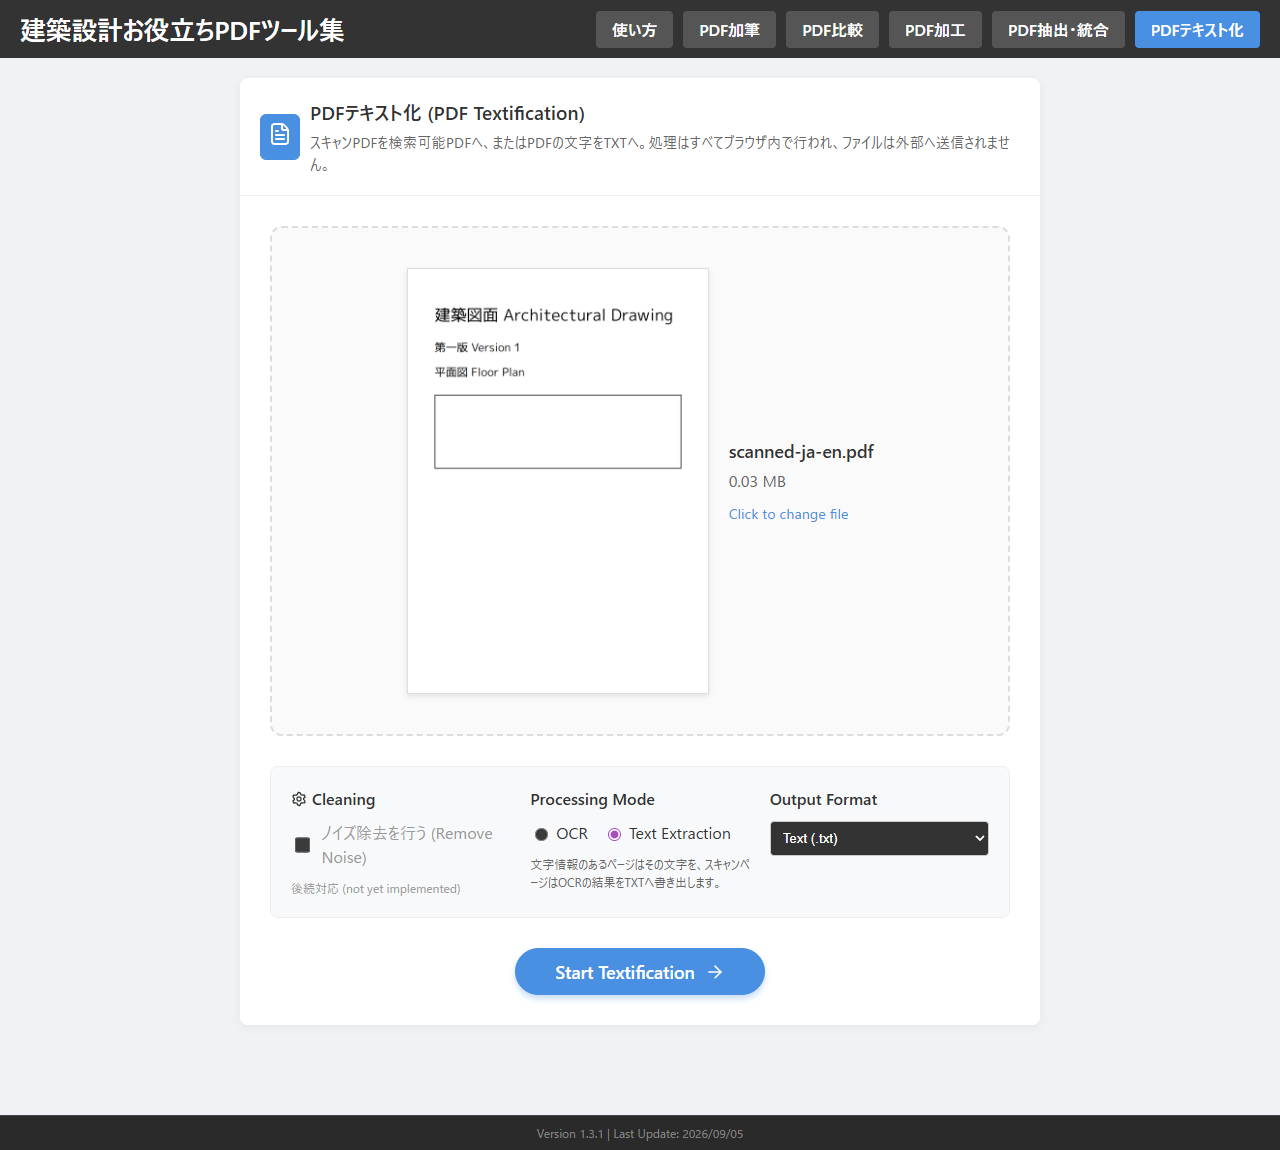
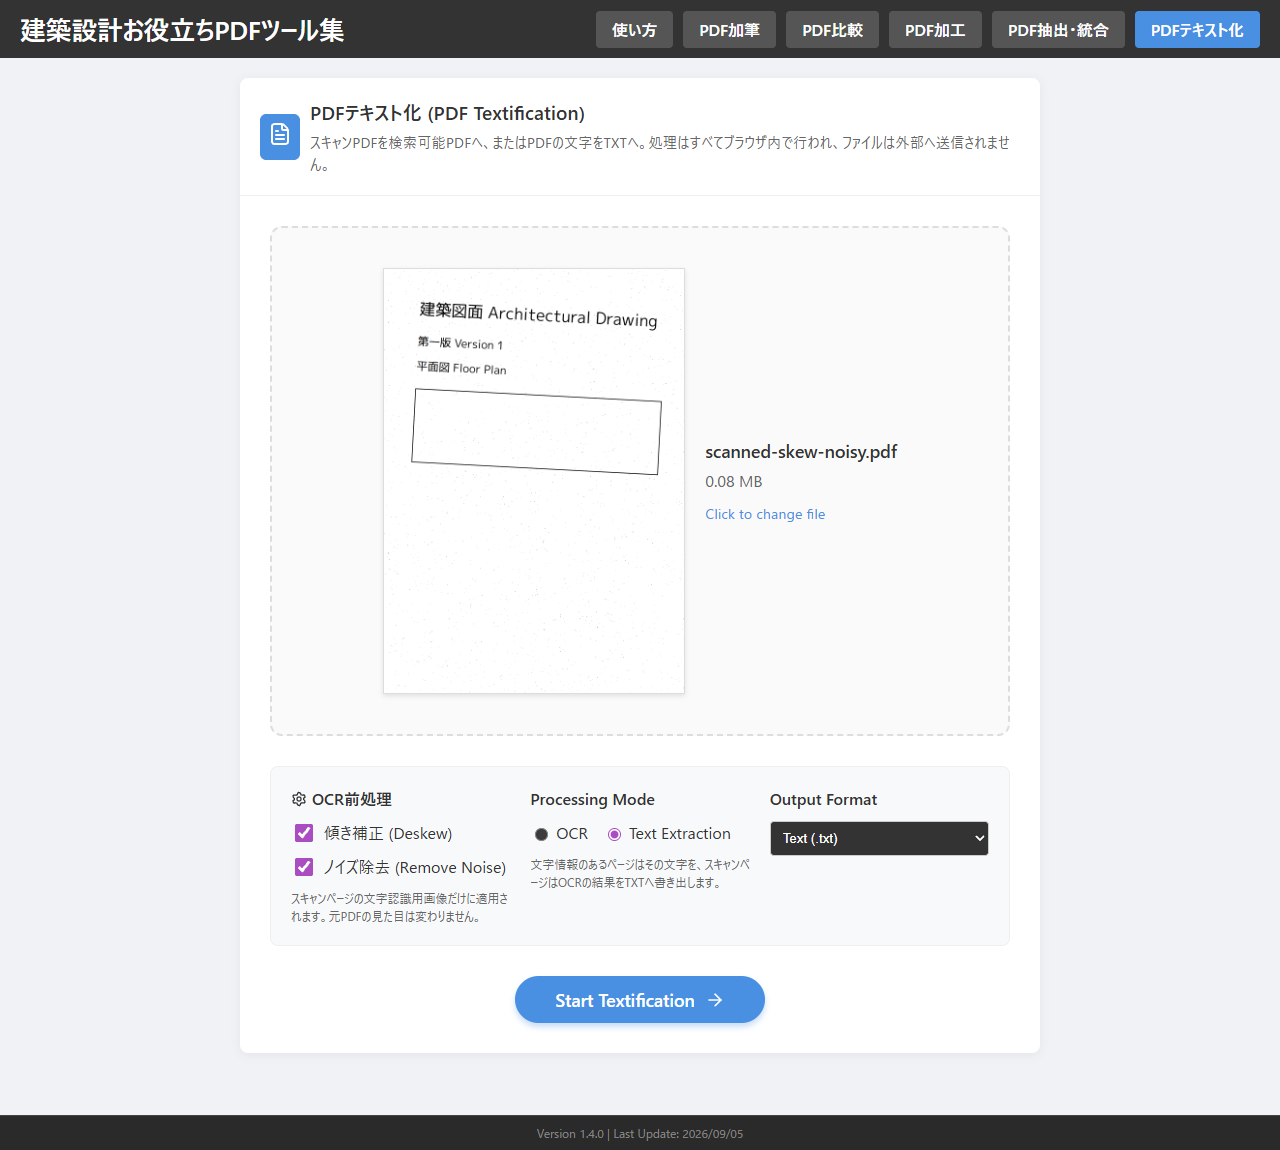
docs: write up OCR preprocessing without overselling it
PDFテキスト化 goes to 1.4.0 / 2026-09-05, a minor: a new user-facing option, no
change to what the tool did before. No other tool version moves, and neither
APP_VERSION nor the package version is touched.

ノイズ除去 leaves the unsupported list, where it had sat as 後続対応, and the
guide gains an OCR前処理 section describing both options.

Written to be accurate rather than encouraging. It says the correction applies
to the recognition image and not to the PDF; that the effect depends on the
scan it started from; that a page which is already straight, or has too little
text to judge from, may be left alone on purpose; that the range is a few
degrees and not a quarter turn; that speckle removal only takes marks standing
alone on paper so thin lines and small characters survive; and that a page
with real text is never preprocessed at all. It does not promise better
accuracy, because the measurements do not support promising it.

The screenshot is retaken on a crooked, speckled fixture with both options on,
so the controls the guide describes are visible in the state it describes them
in. Badge percentages come from the numbers the capture script prints.

Claude-Session: https://claude.ai/code/session_01BnfhcLoU9r7rzci5yQJU3K

diff --git a/src/components/HowToUse.tsx b/src/components/HowToUse.tsx
@@ -19,6 +19,17 @@ const releaseHistory: ReleaseNote[] = [
     {
         date: '2026/09/05',
         tool: 'PDFテキスト化',
+        version: '1.4.0',
+        changes: [
+            'スキャンPDFのOCR前に、ページの傾きを補正できるようになりました。',
+            '軽微なスキャンノイズを取り除いてから文字認識へ渡せるようになりました。',
+            '前処理は文字認識用の画像だけに適用され、元のPDFの見た目は変わりません。',
+            'どちらも初期状態はオフです。必要なときにチェックしてご利用ください。',
+        ],
+    },
+    {
+        date: '2026/09/05',
+        tool: 'PDFテキスト化',
         version: '1.3.1',
         changes: [
             'PDF読み込み時に1ページ目のプレビューが正しく表示されない問題を修正しました。',
@@ -116,7 +127,7 @@ export function HowToUse() {
                 </p>
                 <p style={{ margin: '16px 0 0', fontSize: '0.95em', color: '#9fd3ff' }}>
                     <History size={16} style={{ display: 'inline', verticalAlign: 'middle', marginRight: '6px' }} />
-                    最近の更新: <b>TXT書き出し</b>（PDFテキスト化 v1.3.0） / <b>図枠一括更新</b>（PDF加工 v1.3.0） / <b>図面サイズ統一</b>（PDF加工 v1.2.0）
+                    最近の更新: <b>OCR前処理（傾き補正・ノイズ除去）</b>（PDFテキスト化 v1.4.0） / <b>TXT書き出し</b>（PDFテキスト化 v1.3.0） / <b>図枠一括更新</b>（PDF加工 v1.3.0）
                     — 詳しくはページ下部の<a href="#release-history" style={{ color: '#9fd3ff' }}>更新履歴</a>をご覧ください。
                 </p>
             </div>
@@ -528,9 +539,9 @@ export function HowToUse() {
                         // 1. Upload (Centre)
                         { top: '19.7%', left: '21.1%', width: '57.8%', height: '44.3%', desc: 'ファイルアップロードエリア' },
                         // 2. Settings row (Cleaning / Processing Mode / Output Format)
-                        { top: '66.6%', left: '21.1%', width: '57.8%', height: '13.2%', desc: 'モード・出力形式' },
+                        { top: '66.6%', left: '21.1%', width: '57.8%', height: '15.7%', desc: 'OCR前処理・モード・出力形式' },
                         // 3. Run button
-                        { top: '82.5%', left: '40.3%', width: '19.5%', height: '4.1%', desc: '実行（Start Textification）' }
+                        { top: '84.9%', left: '40.3%', width: '19.5%', height: '4.1%', desc: '実行（Start Textification）' }
                     ]}
                 />
 
@@ -549,8 +560,13 @@ export function HowToUse() {
                             <li><b>Text Extraction</b> → 出力形式は <b>Text (.txt)</b>。文字だけのTXTが保存されます。</li>
                             <li>どちらのモードでも、すでに文字情報を持つページには文字認識を行いません。</li>
                         </ul>
+                        <p><b>OCR前処理</b>は、必要なときだけチェックします（初期状態はオフ）。</p>
+                        <ul style={listStyle}>
+                            <li><b>傾き補正:</b> 斜めに読み取られたスキャンページをまっすぐにしてから認識します。</li>
+                            <li><b>ノイズ除去:</b> 点状の細かな汚れを取り除いてから認識します。</li>
+                        </ul>
                         <p style={noteStyle}>
-                            モードを切り替えると、前のモードの結果は破棄されます。切り替えたあとにもう一度実行してください。
+                            モードや前処理を切り替えると、前の設定で作った結果は破棄されます。切り替えたあとにもう一度実行してください。
                             画面上でグレー表示になっている項目は、まだご利用いただけません（下の「未対応の機能」を参照）。
                         </p>
                     </div>
@@ -577,6 +593,7 @@ export function HowToUse() {
                             <li>ページごとに「文字情報あり」「スキャン画像」を自動判定</li>
                             <li>スキャン画像のページだけをOCR</li>
                             <li>日本語・英語の文字認識</li>
+                            <li><b>OCR前処理（傾き補正・ノイズ除去）</b></li>
                             <li>検索・選択できるPDFの生成</li>
                             <li>元の見た目をそのまま保持</li>
                             <li><b>PDFから文字をTXTとして抽出</b></li>
@@ -597,7 +614,6 @@ export function HowToUse() {
                         <ul style={listStyle}>
                             <li><b>Word (.docx) 出力</b> — 未対応（Coming later）</li>
                             <li><b>Excel (.xlsx) 出力</b> — 未対応（Coming later）</li>
-                            <li><b>ノイズ除去 (Remove Noise)</b> — 未対応（後続対応）</li>
                         </ul>
                         <p style={noteStyle}>
                             現在ご利用いただける出力は「PDF (Searchable)」と「Text (.txt)」です。
@@ -614,13 +630,25 @@ export function HowToUse() {
                         <li>段組みや表が複雑なページでは、文字の順序が見た目どおりにならない場合があります。</li>
                         <li>表をExcelの表として復元する機能ではありません。</li>
                         <li>スキャンページの文字の正確さは、元の画像の品質によって変わります。</li>
-                        <li>ノイズ除去・傾き補正は行いません。</li>
                         <li>キャンセルは現在のページの認識が終わったあとに反映されます。</li>
                     </ul>
                 </div>
 
+                {/* 5-d. What preprocessing is, and what it is not */}
+                <div style={{ ...cardStyle, borderLeft: '6px solid #4a90e2', marginTop: '20px' }}>
+                    <h4 style={cardHeadStyle}><Settings size={18} /> OCR前処理について</h4>
+                    <ul style={listStyle}>
+                        <li>補正するのは<b>文字認識用の画像だけ</b>です。元のPDFの見た目・線・文字情報は変更しません。</li>
+                        <li>効果は元のスキャン画像の品質によって変わります。</li>
+                        <li>傾きがほとんどないページや、判断できるだけの文字がないページでは、補正を行わないことがあります。誤って傾けないための動作です。</li>
+                        <li>対象はおおよそ5度までの傾きです。用紙が90度単位で回転しているページは、これとは別に元から扱われます。</li>
+                        <li>ノイズ除去は、紙の上に単独で載っている点だけを取り除きます。細い線や小さな文字を消さないよう控えめに動作します。</li>
+                        <li>文字情報を持つページには前処理を行いません（そもそも文字認識をしないため）。</li>
+                    </ul>
+                </div>
+
                 <p style={calloutStyle}>
-                    <b>データの取り扱い:</b> 文字認識とTXTの書き出しは、どちらもお使いのブラウザ内で実行されます。
+                    <b>データの取り扱い:</b> 文字認識・OCR前処理・TXTの書き出しは、いずれもお使いのブラウザ内で実行されます。
                     PDFを外部のAI・OCRサービスへ送信することはありません。
                 </p>
             </section>

diff --git a/src/config/versions.ts b/src/config/versions.ts
@@ -34,9 +34,9 @@ export const TOOL_VERSIONS: Record<string, ToolVersion> = {
         changelog: '図枠一括更新機能を追加'
     },
     textifier: {
-        version: '1.3.1',
+        version: '1.4.0',
         lastUpdate: '2026/09/05',
-        changelog: 'PDF読み込み時のプレビュー表示を修正'
+        changelog: 'OCR用の傾き補正・ノイズ除去を追加'
     },
     splitMerge: {
         version: '1.1.1',
